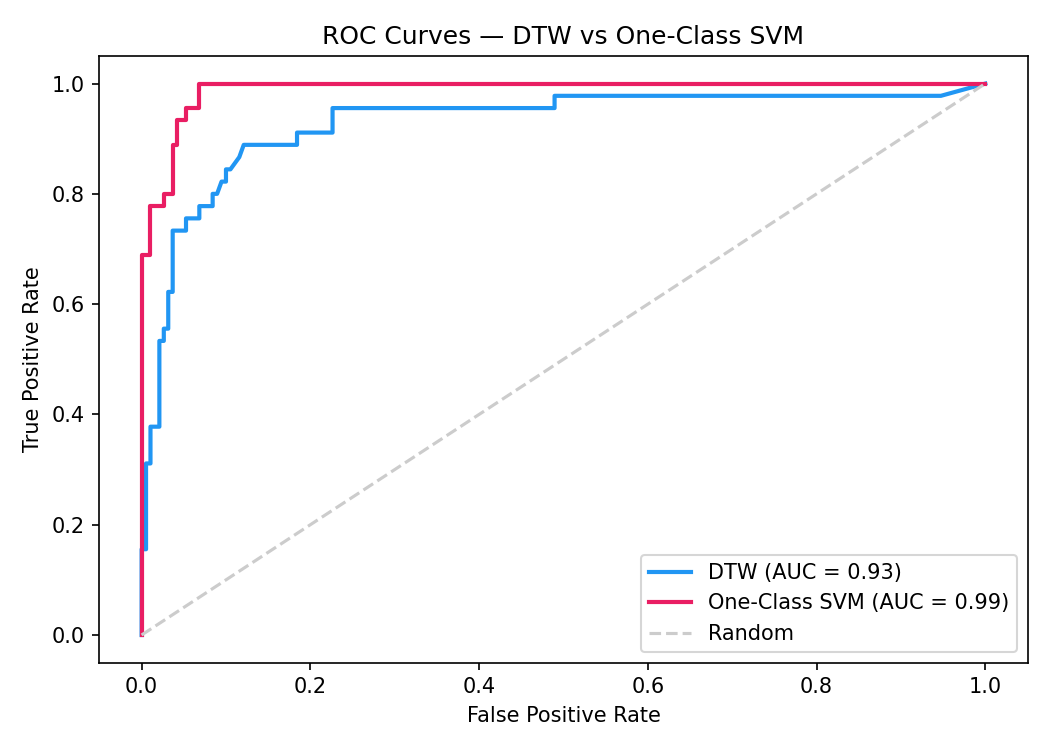
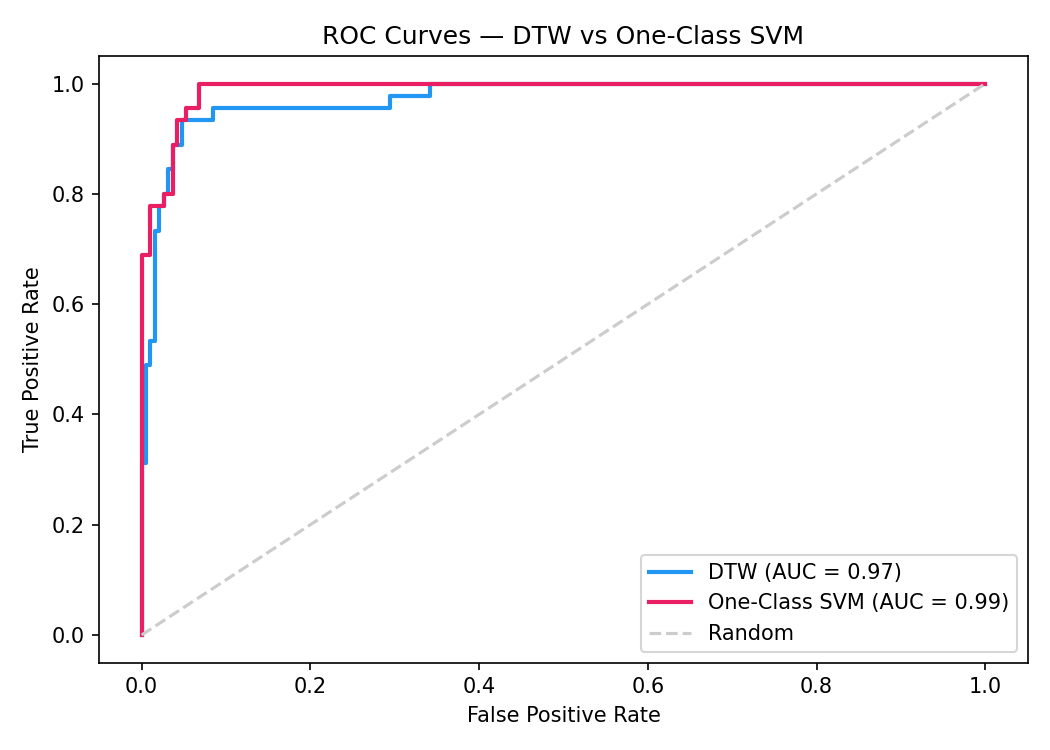
Fix DTW threshold - F1 improved to 0.80, updated results and ROC curve

diff --git a/kajal/kajal_final_results.py b/kajal/kajal_final_results.py
@@ -42,31 +42,36 @@ start_dtw = time.time()
 train_seq = X_train[:, :, 0]
 test_seq  = X_test[:, :, 0]
 
-# Threshold from training distances
-train_dists = []
-for i in range(len(train_seq)):
-    for j in range(i+1, min(i+20, len(train_seq))):
-        train_dists.append(dtw(train_seq[i], train_seq[j]))
+# Normal template banao
+normal_seq = train_seq[y_train == 0]
+template   = np.mean(normal_seq, axis=0)
 
-threshold = np.mean(train_dists) + 1 * np.std(train_dists)
+# Har normal sample ki template se distance nikalo
+train_dists = []
+for seq in normal_seq:
+    dist = dtw(seq, template)
+    train_dists.append(dist)
+
+# Threshold set karo
+threshold = np.mean(train_dists) + 2 * np.std(train_dists)
 print(f"DTW Threshold: {threshold:.4f}")
 
-# Predict
-dtw_scores = []
+# Predict on test set
+dtw_scores      = []
 predictions_dtw = []
 for seq in test_seq:
-    min_dist = min(dtw(seq, s) for s in train_seq)
-    dtw_scores.append(min_dist)
-    predictions_dtw.append(1 if min_dist > threshold else 0)
+    dist = dtw(seq, template)
+    dtw_scores.append(dist)
+    predictions_dtw.append(1 if dist > threshold else 0)
 
 predictions_dtw = np.array(predictions_dtw)
 dtw_scores      = np.array(dtw_scores)
 elapsed_dtw     = time.time() - start_dtw
 
 # DTW Metrics
-dtw_precision = precision_score(y_test, predictions_dtw)
-dtw_recall    = recall_score(y_test, predictions_dtw)
-dtw_f1        = f1_score(y_test, predictions_dtw)
+dtw_precision = precision_score(y_test, predictions_dtw, zero_division=0)
+dtw_recall    = recall_score(y_test, predictions_dtw, zero_division=0)
+dtw_f1        = f1_score(y_test, predictions_dtw, zero_division=0)
 dtw_auc       = roc_auc_score(y_test, dtw_scores)
 
 print(f"\n===== DTW RESULTS =====")
@@ -83,25 +88,25 @@ print("\nRunning One-Class SVM...")
 start_svm = time.time()
 
 # Scale
-X_normal = X_train_flat[y_train == 0]
-scaler   = StandardScaler()
+X_normal        = X_train_flat[y_train == 0]
+scaler          = StandardScaler()
 X_normal_scaled = scaler.fit_transform(X_normal)
 X_test_scaled   = scaler.transform(X_test_flat)
 
-# Train
+# Train only on normal data
 ocsvm = OneClassSVM(kernel='rbf', nu=0.05, gamma='scale')
 ocsvm.fit(X_normal_scaled)
 
 # Predict
-raw_preds    = ocsvm.predict(X_test_scaled)
-ocsvm_preds  = (raw_preds == -1).astype(int)
-svm_scores   = -ocsvm.decision_function(X_test_scaled)
-elapsed_svm  = time.time() - start_svm
+raw_preds   = ocsvm.predict(X_test_scaled)
+ocsvm_preds = (raw_preds == -1).astype(int)
+svm_scores  = -ocsvm.decision_function(X_test_scaled)
+elapsed_svm = time.time() - start_svm
 
 # SVM Metrics
-svm_precision = precision_score(y_test, ocsvm_preds)
-svm_recall    = recall_score(y_test, ocsvm_preds)
-svm_f1        = f1_score(y_test, ocsvm_preds)
+svm_precision = precision_score(y_test, ocsvm_preds, zero_division=0)
+svm_recall    = recall_score(y_test, ocsvm_preds, zero_division=0)
+svm_f1        = f1_score(y_test, ocsvm_preds, zero_division=0)
 svm_auc       = roc_auc_score(y_test, svm_scores)
 
 print(f"\n===== ONE-CLASS SVM RESULTS =====")
@@ -114,7 +119,7 @@ print(f"Time      : {elapsed_svm:.2f} sec")
 # ============================================
 # 5. SAVE RESULTS CSV
 # ============================================
-results_path = r"C:\Users\Lenovo\Documents\manit\Menstrual_project\results"
+results_path = r"C:\Users\Lenovo\Documents\manit\Menstrual_project\Menstrual-Health-Anomaly-Detector\kajal\results"
 os.makedirs(results_path, exist_ok=True)
 
 results = pd.DataFrame([
@@ -147,7 +152,7 @@ print("Results CSV saved! ✅")
 # ============================================
 # 6. ROC CURVE PLOT
 # ============================================
-figures_path = r"C:\Users\Lenovo\Documents\manit\Menstrual_project\figures"
+figures_path = r"C:\Users\Lenovo\Documents\manit\Menstrual_project\Menstrual-Health-Anomaly-Detector\kajal\figures"
 os.makedirs(figures_path, exist_ok=True)
 
 fpr_dtw, tpr_dtw, _ = roc_curve(y_test, dtw_scores)
